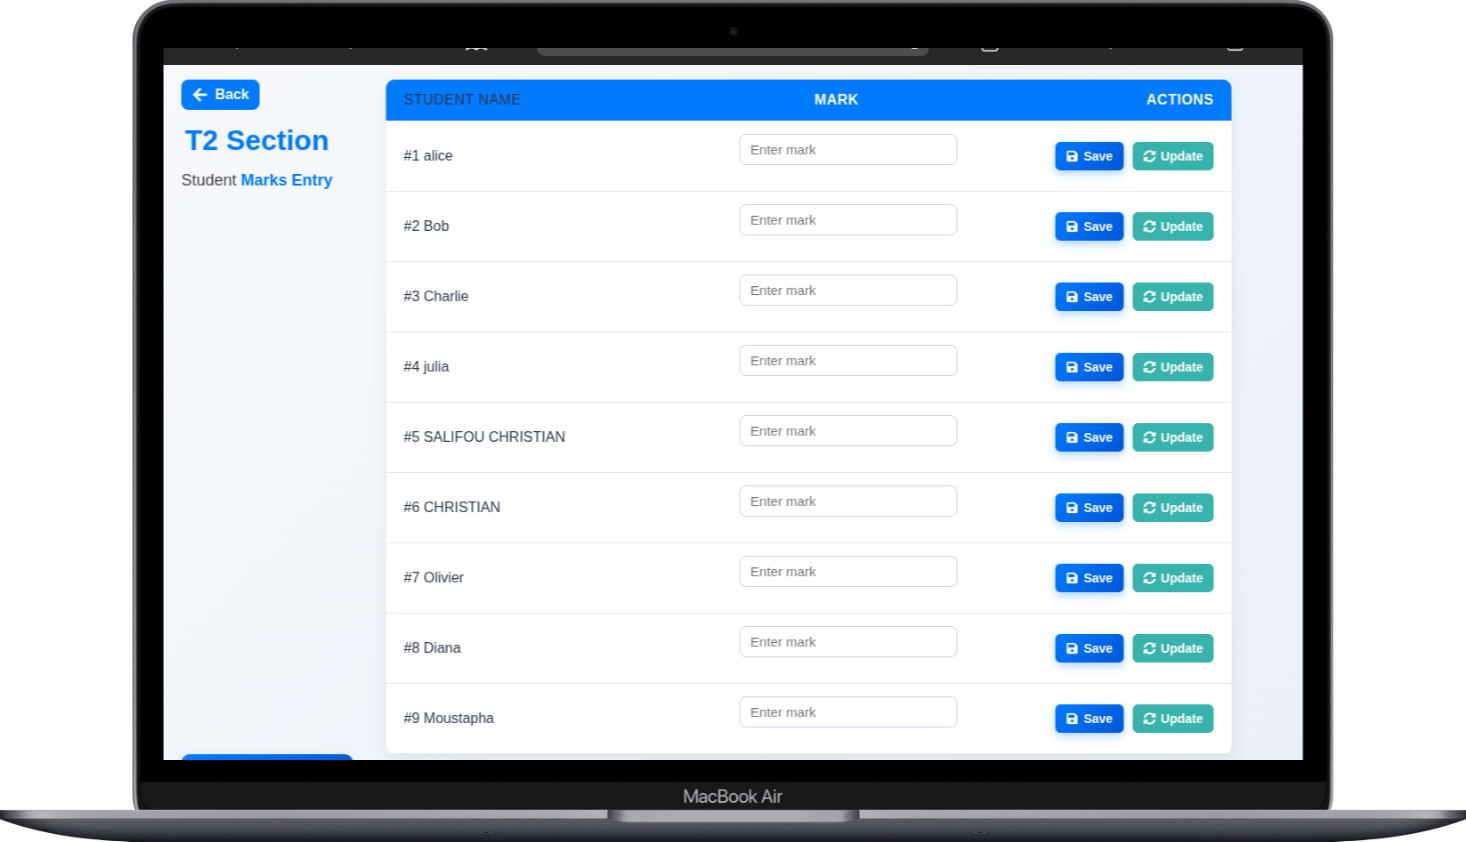
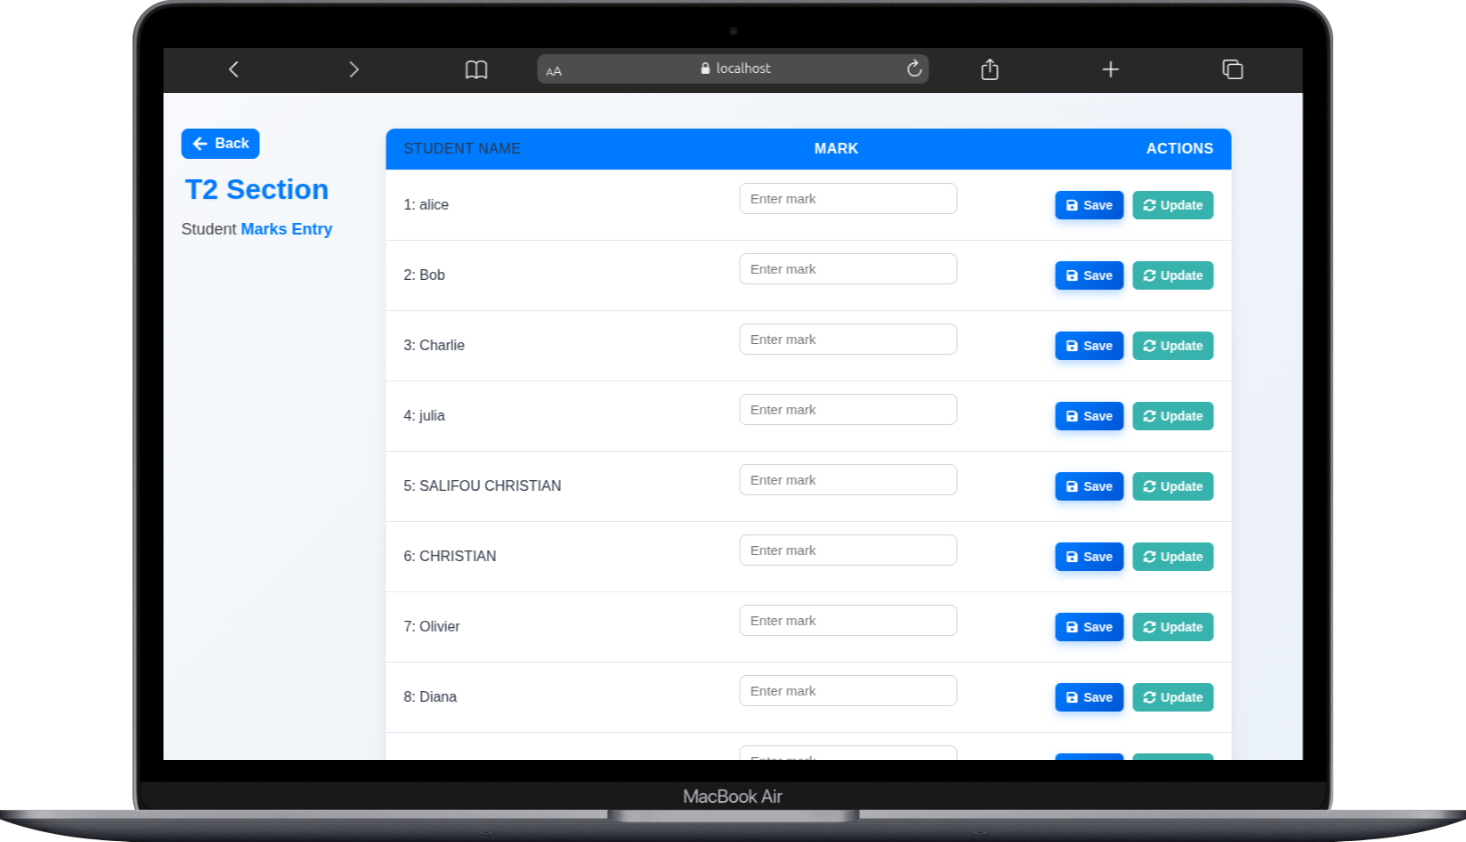
update

diff --git a/src/view/proffesor/MarksP.jsx b/src/view/proffesor/MarksP.jsx
@@ -91,7 +91,7 @@ function MarksP() {
 
         {students.map((s, idx) => (
           <div key={s.studentId} className="marks-row">
-            <span className="col-name">#{idx + 1} {s.name}</span>
+            <span className="col-name">{idx + 1}: {s.name}</span>
 
             <input
               type="number"
